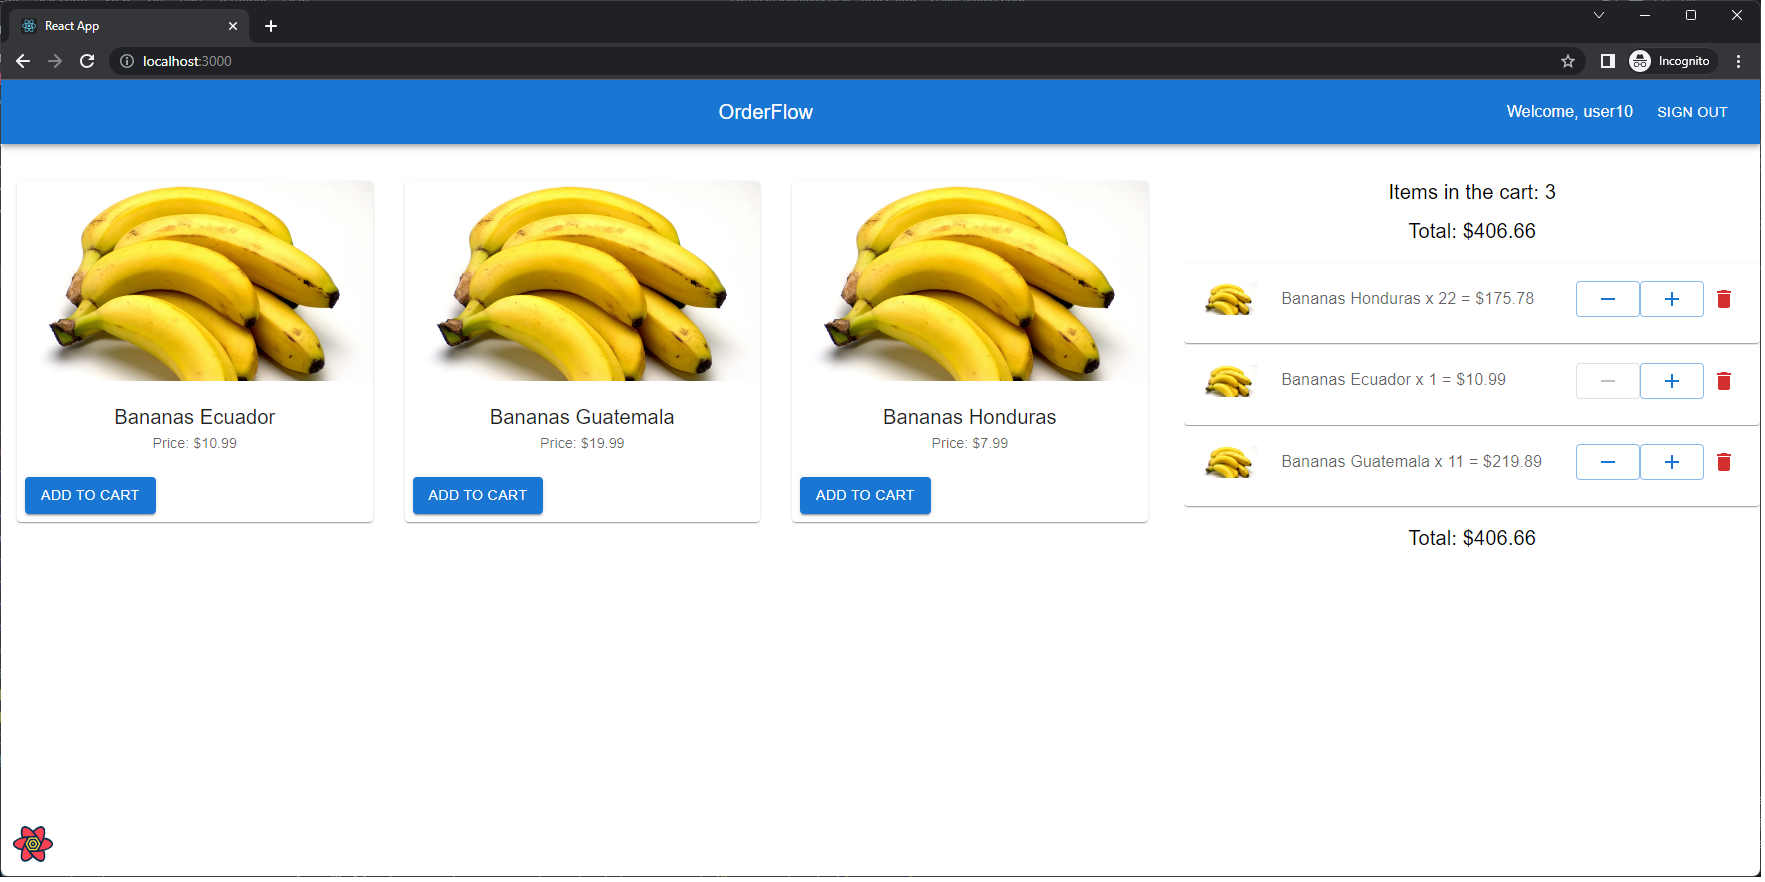
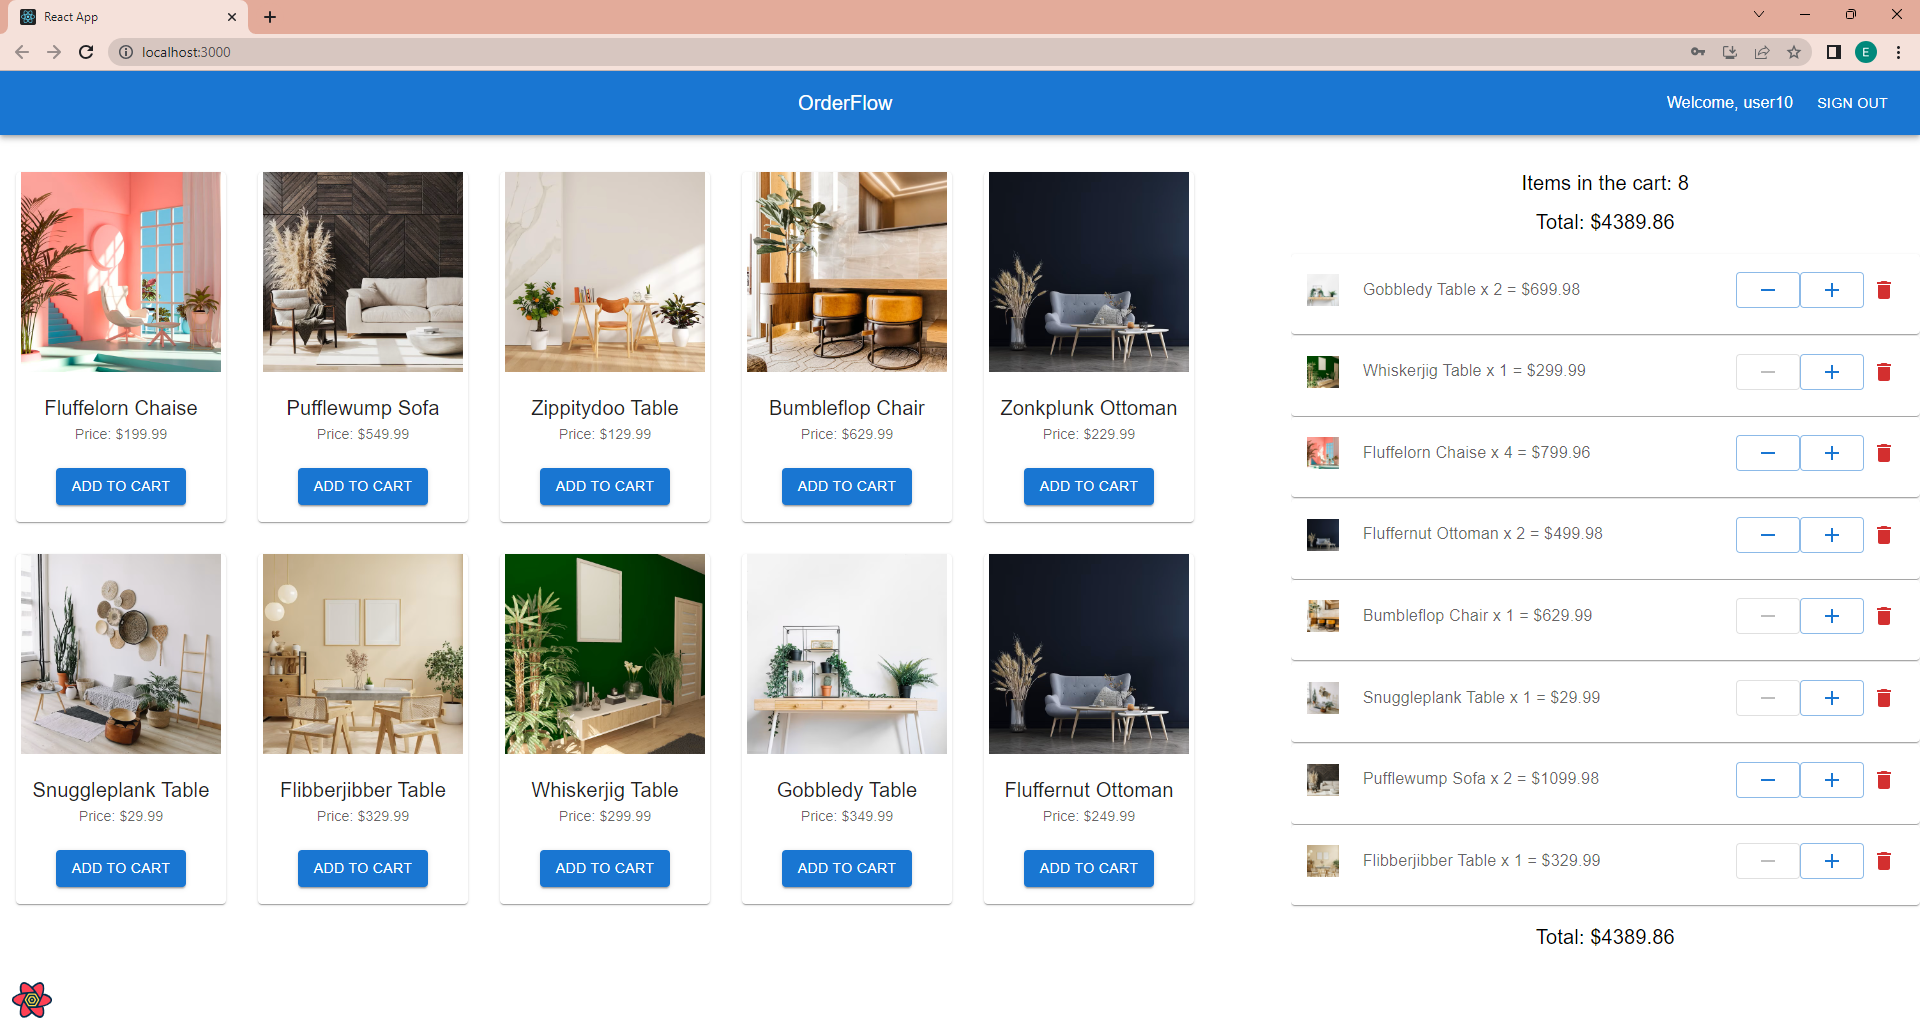
add product cards

diff --git a/front/src/components/CartItem.tsx b/front/src/components/CartItem.tsx
@@ -27,8 +27,9 @@ export default function CartItem({ product, item, increaseQuantity, decreaseQuan
 
     return (
         <Card style={{ marginBottom: '0.1rem' }}>
-            <CardContent style={{ display: 'flex', alignItems: 'center', justifyContent: 'space-between' }}>
-                {product?.image_url && <img src='https://media.cnn.com/api/v1/images/stellar/prod/120604032828-fresh-ripe-bananas.jpg?q=x_0,y_106,h_2019,w_3590,c_crop/h_720,w_1280/f_webp' alt={product.name} style={{ height: '2rem', marginRight: '1rem' }} />}
+            <CardContent style={{ display: 'flex', alignItems: 'center', justifyContent: 'space-between' }}>            
+            {product?.image_url && <img src={product?.image_url} alt={product.name} style={{ height: '2rem', marginRight: '1rem' }} />}
+                {/* {product?.image_url && <img src='https://media.cnn.com/api/v1/images/stellar/prod/120604032828-fresh-ripe-bananas.jpg?q=x_0,y_106,h_2019,w_3590,c_crop/h_720,w_1280/f_webp' alt={product.name} style={{ height: '2rem', marginRight: '1rem' }} />} */}
                 <div style={{ display: 'flex', alignItems: 'center', gap: '1rem', flex: 1 }}>
                     <Typography variant="body2" color="text.secondary" style={{ fontSize: '1.0rem', marginLeft: '0.5rem' }}>
                         {product?.name} x {item?.quantity} = ${product && item ? (product.price * item.quantity).toFixed(2) : '?'}

diff --git a/front/src/components/ProductCard.tsx b/front/src/components/ProductCard.tsx
@@ -12,9 +12,8 @@ export default function ProductCard({ product, addToCart }: ProductCardProps) {
     };
 
     return (
-        <Card key={product.id} style={{ margin: '1rem' }}>
-            {/* <img src={product.imageUrl} alt={product.product_name} style={{ height: 200, objectFit: 'cover' }} /> */}
-            <img src='https://media.cnn.com/api/v1/images/stellar/prod/120604032828-fresh-ripe-bananas.jpg?q=x_0,y_106,h_2019,w_3590,c_crop/h_720,w_1280/f_webp' alt={product.name} style={{ height: 200, objectFit: 'cover' }} />
+        <Card key={product.id} style={{ width: '210px', height: '350px', margin: '1rem' }}>
+            <img src={product.image_url} alt={product.name} style={{ height: 200, objectFit: 'cover' }} />
             <CardContent>
                 <Typography variant="h6" component="div">
                     {product.name}
@@ -23,7 +22,7 @@ export default function ProductCard({ product, addToCart }: ProductCardProps) {
                     Price: ${product.price}
                 </Typography>
             </CardContent>
-            <CardActions>
+            <CardActions style={{ justifyContent: 'center' }}>
                 <Button variant="contained" color="primary" onClick={handleAddToCart}>
                     Add to cart
                 </Button>
